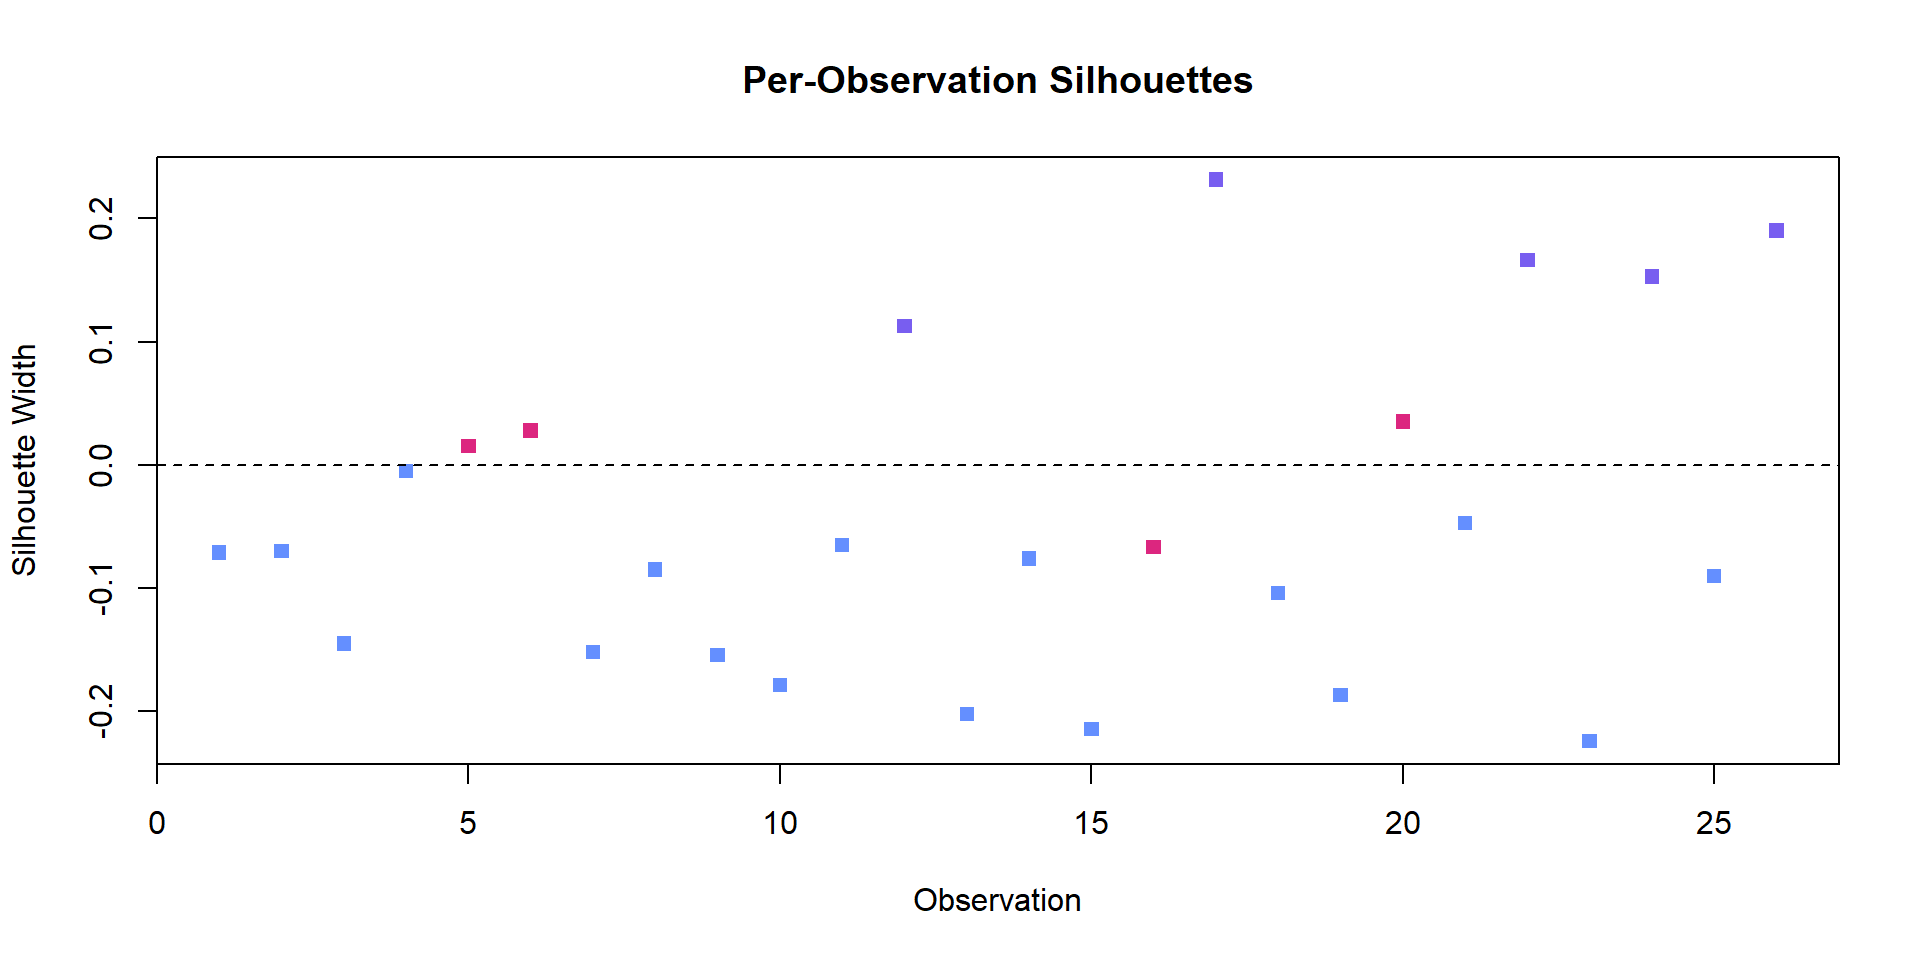
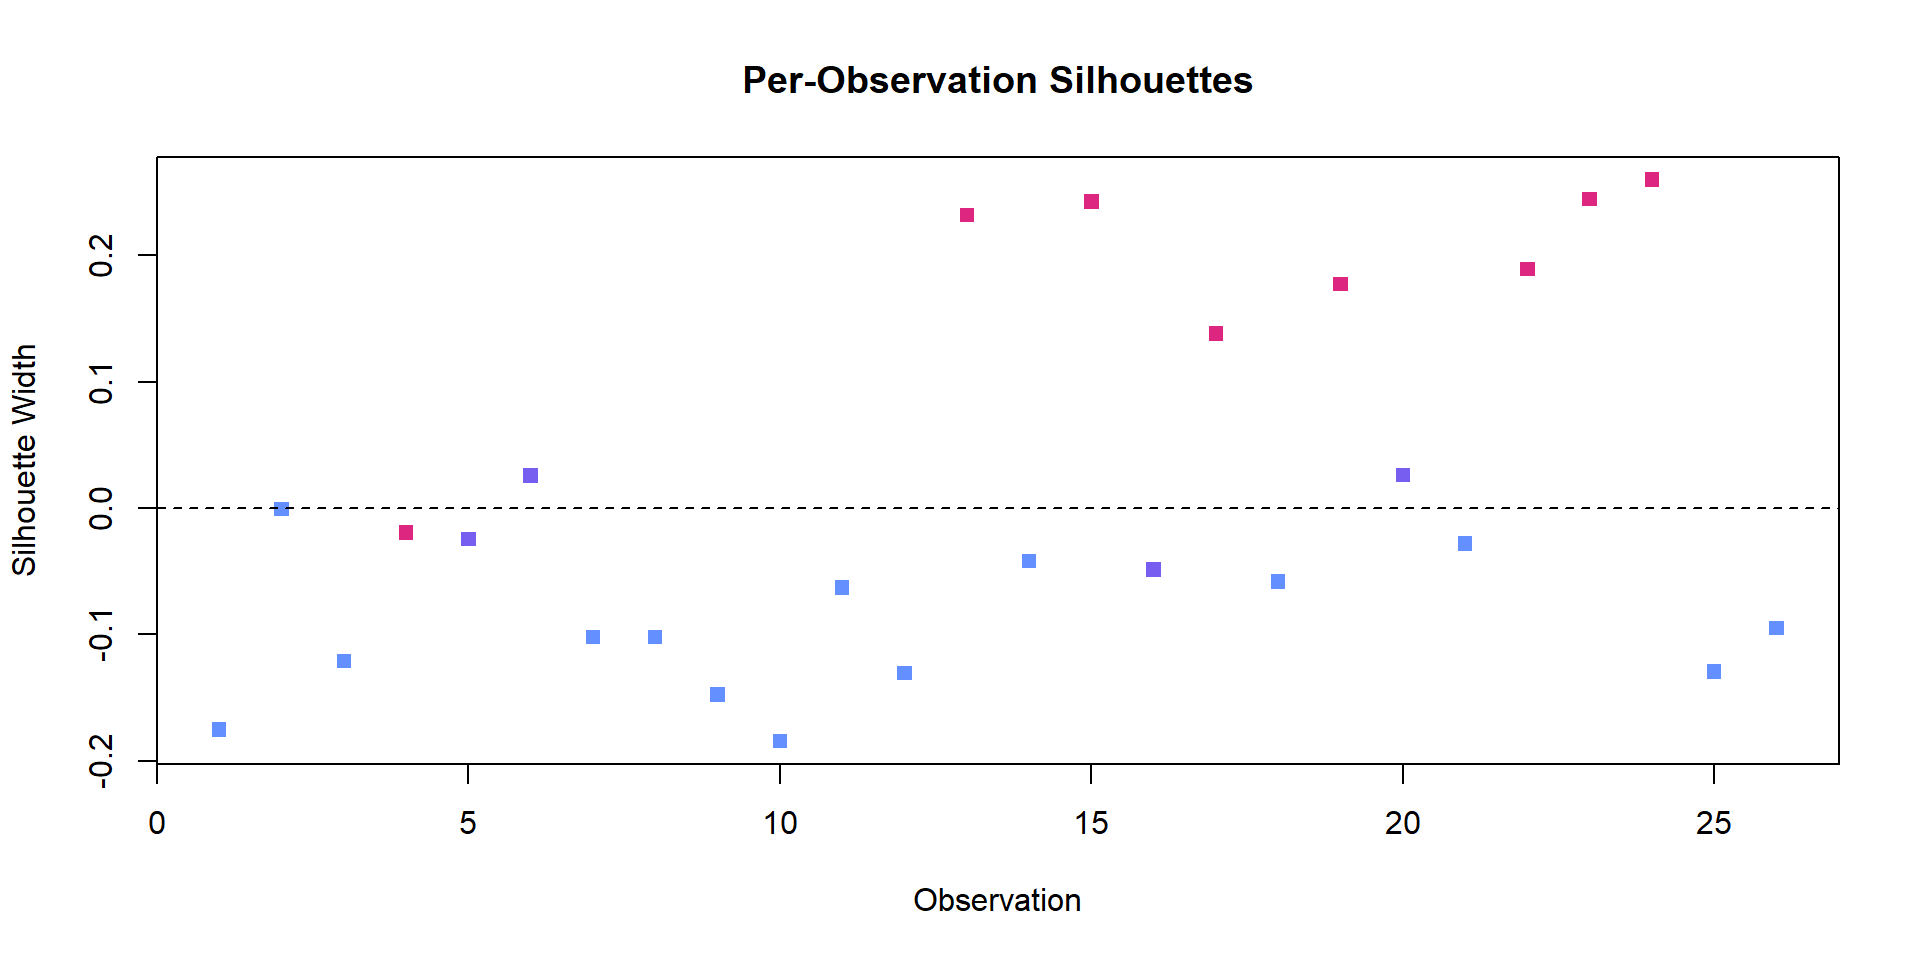
working on the prez

diff --git a/Text/Reports/Presentation.html b/Text/Reports/Presentation.html
@@ -34,26 +34,7 @@
       margin: 0 0.8em 0.2em -1em; /* quarto-specific, see https://github.com/quarto-dev/quarto-cli/issues/4556 */ 
       vertical-align: middle;
     }
-    /* CSS for citations */
-    div.csl-bib-body { }
-    div.csl-entry {
-      clear: both;
-    }
-    .hanging-indent div.csl-entry {
-      margin-left:2em;
-      text-indent:-2em;
-    }
-    div.csl-left-margin {
-      min-width:2em;
-      float:left;
-    }
-    div.csl-right-inline {
-      margin-left:2em;
-      padding-left:1em;
-    }
-    div.csl-indent {
-      margin-left: 2em;
-    }  </style>
+  </style>
   <link rel="stylesheet" href="Presentation_files/libs/revealjs/dist/theme/quarto-84b150702567ae7e15cad124fb9039e2.css">
   <link href="Presentation_files/libs/revealjs/plugin/quarto-line-highlight/line-highlight.css" rel="stylesheet">
   <link href="Presentation_files/libs/revealjs/plugin/reveal-menu/menu.css" rel="stylesheet">
@@ -1879,45 +1860,45 @@ Gaia Smith and Alice Thompson
 <tbody>
 <tr class="odd">
 <td style="text-align: left;">2</td>
-<td style="text-align: right;">0.3808610</td>
-<td style="text-align: right;">0.2839108</td>
-<td style="text-align: right;">0.3352282</td>
+<td style="text-align: right;">0.3642165</td>
+<td style="text-align: right;">0.3205779</td>
+<td style="text-align: right;">0.3152056</td>
 </tr>
 <tr class="even">
 <td style="text-align: left;">3</td>
-<td style="text-align: right;">0.3994904</td>
-<td style="text-align: right;">0.3025900</td>
-<td style="text-align: right;">0.2979197</td>
+<td style="text-align: right;">0.4192879</td>
+<td style="text-align: right;">0.3126837</td>
+<td style="text-align: right;">0.2680284</td>
 </tr>
 <tr class="odd">
 <td style="text-align: left;">5</td>
-<td style="text-align: right;">0.3951292</td>
-<td style="text-align: right;">0.2562405</td>
-<td style="text-align: right;">0.3486303</td>
+<td style="text-align: right;">0.3964731</td>
+<td style="text-align: right;">0.3498160</td>
+<td style="text-align: right;">0.2537109</td>
 </tr>
 <tr class="even">
 <td style="text-align: left;">6</td>
-<td style="text-align: right;">0.3964214</td>
-<td style="text-align: right;">0.3030350</td>
-<td style="text-align: right;">0.3005436</td>
+<td style="text-align: right;">0.3564183</td>
+<td style="text-align: right;">0.2702156</td>
+<td style="text-align: right;">0.3733661</td>
 </tr>
 <tr class="odd">
 <td style="text-align: left;">8</td>
-<td style="text-align: right;">0.3548860</td>
-<td style="text-align: right;">0.2434897</td>
-<td style="text-align: right;">0.4016243</td>
+<td style="text-align: right;">0.3731855</td>
+<td style="text-align: right;">0.4223339</td>
+<td style="text-align: right;">0.2044806</td>
 </tr>
 <tr class="even">
 <td style="text-align: left;">9</td>
-<td style="text-align: right;">0.3448716</td>
-<td style="text-align: right;">0.2596851</td>
-<td style="text-align: right;">0.3954432</td>
+<td style="text-align: right;">0.3308487</td>
+<td style="text-align: right;">0.3793640</td>
+<td style="text-align: right;">0.2897873</td>
 </tr>
 <tr class="odd">
 <td style="text-align: left;">10</td>
-<td style="text-align: right;">0.3987019</td>
-<td style="text-align: right;">0.2584034</td>
-<td style="text-align: right;">0.3428947</td>
+<td style="text-align: right;">0.3972201</td>
+<td style="text-align: right;">0.3416203</td>
+<td style="text-align: right;">0.2611597</td>
 </tr>
 <tr class="even">
 <td style="text-align: left;">11</td>
@@ -1927,33 +1908,33 @@ Gaia Smith and Alice Thompson
 </tr>
 <tr class="odd">
 <td style="text-align: left;">12</td>
-<td style="text-align: right;">0.4590163</td>
-<td style="text-align: right;">0.3743813</td>
-<td style="text-align: right;">0.1666023</td>
+<td style="text-align: right;">0.5056657</td>
+<td style="text-align: right;">0.1835340</td>
+<td style="text-align: right;">0.3108003</td>
 </tr>
 <tr class="even">
 <td style="text-align: left;">15</td>
-<td style="text-align: right;">0.4064680</td>
-<td style="text-align: right;">0.3074530</td>
-<td style="text-align: right;">0.2860789</td>
+<td style="text-align: right;">0.3788758</td>
+<td style="text-align: right;">0.2666590</td>
+<td style="text-align: right;">0.3544652</td>
 </tr>
 <tr class="odd">
 <td style="text-align: left;">16</td>
-<td style="text-align: right;">0.3951507</td>
-<td style="text-align: right;">0.2462246</td>
-<td style="text-align: right;">0.3586247</td>
+<td style="text-align: right;">0.3814978</td>
+<td style="text-align: right;">0.3462338</td>
+<td style="text-align: right;">0.2722684</td>
 </tr>
 <tr class="even">
 <td style="text-align: left;">18</td>
-<td style="text-align: right;">0.2977457</td>
-<td style="text-align: right;">0.4322926</td>
-<td style="text-align: right;">0.2699617</td>
+<td style="text-align: right;">0.3558813</td>
+<td style="text-align: right;">0.3226723</td>
+<td style="text-align: right;">0.3214464</td>
 </tr>
 <tr class="odd">
 <td style="text-align: left;">20</td>
-<td style="text-align: right;">0.4236822</td>
-<td style="text-align: right;">0.3502296</td>
-<td style="text-align: right;">0.2260882</td>
+<td style="text-align: right;">0.0000000</td>
+<td style="text-align: right;">0.0000000</td>
+<td style="text-align: right;">1.0000000</td>
 </tr>
 </tbody>
 </table>
@@ -1978,81 +1959,81 @@ Gaia Smith and Alice Thompson
 <tbody>
 <tr class="odd">
 <td style="text-align: left;">23</td>
-<td style="text-align: right;">0.4050991</td>
-<td style="text-align: right;">0.2507065</td>
-<td style="text-align: right;">0.3441944</td>
+<td style="text-align: right;">0.4224857</td>
+<td style="text-align: right;">0.3589670</td>
+<td style="text-align: right;">0.2185473</td>
 </tr>
 <tr class="even">
 <td style="text-align: left;">24</td>
-<td style="text-align: right;">0.3767881</td>
-<td style="text-align: right;">0.3403890</td>
-<td style="text-align: right;">0.2828230</td>
+<td style="text-align: right;">0.3166053</td>
+<td style="text-align: right;">0.2376488</td>
+<td style="text-align: right;">0.4457459</td>
 </tr>
 <tr class="odd">
 <td style="text-align: left;">26</td>
 <td style="text-align: right;">0.0000000</td>
-<td style="text-align: right;">0.0000000</td>
 <td style="text-align: right;">1.0000000</td>
+<td style="text-align: right;">0.0000000</td>
 </tr>
 <tr class="even">
 <td style="text-align: left;">27</td>
-<td style="text-align: right;">0.0000000</td>
-<td style="text-align: right;">1.0000000</td>
-<td style="text-align: right;">0.0000000</td>
+<td style="text-align: right;">0.3161169</td>
+<td style="text-align: right;">0.2755752</td>
+<td style="text-align: right;">0.4083079</td>
 </tr>
 <tr class="odd">
 <td style="text-align: left;">29</td>
-<td style="text-align: right;">0.3759377</td>
-<td style="text-align: right;">0.2859738</td>
-<td style="text-align: right;">0.3380885</td>
+<td style="text-align: right;">0.3857492</td>
+<td style="text-align: right;">0.3469122</td>
+<td style="text-align: right;">0.2673387</td>
 </tr>
 <tr class="even">
 <td style="text-align: left;">30</td>
-<td style="text-align: right;">0.3446866</td>
-<td style="text-align: right;">0.3314023</td>
-<td style="text-align: right;">0.3239112</td>
+<td style="text-align: right;">0.3323539</td>
+<td style="text-align: right;">0.3123218</td>
+<td style="text-align: right;">0.3553243</td>
 </tr>
 <tr class="odd">
 <td style="text-align: left;">31</td>
-<td style="text-align: right;">0.3267719</td>
-<td style="text-align: right;">0.3017146</td>
-<td style="text-align: right;">0.3715135</td>
+<td style="text-align: right;">0.3341482</td>
+<td style="text-align: right;">0.3798999</td>
+<td style="text-align: right;">0.2859519</td>
 </tr>
 <tr class="even">
 <td style="text-align: left;">32</td>
-<td style="text-align: right;">0.3975712</td>
-<td style="text-align: right;">0.2877853</td>
-<td style="text-align: right;">0.3146435</td>
+<td style="text-align: right;">0.3863466</td>
+<td style="text-align: right;">0.3057601</td>
+<td style="text-align: right;">0.3078933</td>
 </tr>
 <tr class="odd">
 <td style="text-align: left;">33</td>
-<td style="text-align: right;">0.3103118</td>
-<td style="text-align: right;">0.3632485</td>
-<td style="text-align: right;">0.3264398</td>
+<td style="text-align: right;">0.3072383</td>
+<td style="text-align: right;">0.3232066</td>
+<td style="text-align: right;">0.3695551</td>
 </tr>
 <tr class="even">
 <td style="text-align: left;">34</td>
-<td style="text-align: right;">0.3529295</td>
-<td style="text-align: right;">0.3328316</td>
-<td style="text-align: right;">0.3142389</td>
+<td style="text-align: right;">0.3259026</td>
+<td style="text-align: right;">0.2901749</td>
+<td style="text-align: right;">0.3839225</td>
 </tr>
 <tr class="odd">
 <td style="text-align: left;">35</td>
-<td style="text-align: right;">0.3675679</td>
-<td style="text-align: right;">0.3728005</td>
-<td style="text-align: right;">0.2596316</td>
+<td style="text-align: right;">0.3335817</td>
+<td style="text-align: right;">0.2356255</td>
+<td style="text-align: right;">0.4307928</td>
 </tr>
 <tr class="even">
 <td style="text-align: left;">36</td>
-<td style="text-align: right;">0.4021137</td>
-<td style="text-align: right;">0.3029690</td>
-<td style="text-align: right;">0.2949173</td>
+<td style="text-align: right;">0.4045562</td>
+<td style="text-align: right;">0.2967087</td>
+<td style="text-align: right;">0.2987351</td>
 </tr>
 <tr class="odd">
 <td style="text-align: left;">37</td>
-<td style="text-align: right;">0.3269203</td>
-<td style="text-align: right;">0.4374294</td>
-<td style="text-align: right;">0.2356503</td>
+<td style="text-align: right;">0.3983628</td>
+<td style="text-align: right;">0.2871473</td>
+<td style="text-align: right;">0.3144899</td>
 </tr>
 </tbody>
 </table>
@@ -2092,21 +2073,20 @@ Gaia Smith and Alice Thompson
 <h2>5. Discussion</h2>
 <ul>
 <li class="fragment"><p><span class="citation" data-cites="Caponetti2017-sc">@Caponetti2017-sc</span> determined 3 distinct groupings of ingots, which provides evidence of a scarce and highly prized alloy being manufactured in one place at one time. This was determined with the added variable of the physical form of the ingots.</p></li>
-<li class="fragment"><p>Our results</p></li>
 <li class="fragment"><p>What were the limitations of this study?</p></li>
 <li class="fragment"><p>What further research could be done? Different statistical analysis?</p></li>
 </ul>
 </section>
-<section id="references" class="slide level2 smaller scrollable">
+<section id="references" class="slide level2">
 <h2>6. References</h2>
-<div id="refs" role="list">
+<div id="ref">
 
 </div>
 </section>
-<section id="any-questions" class="slide level2">
+<section id="any-questions" class="slide level2 center">
 <h2>7. Any Questions</h2>
-
 </section>
+
     </div>
   <div class="quarto-auto-generated-content" style="display: none;">
 <div class="footer footer-default">
